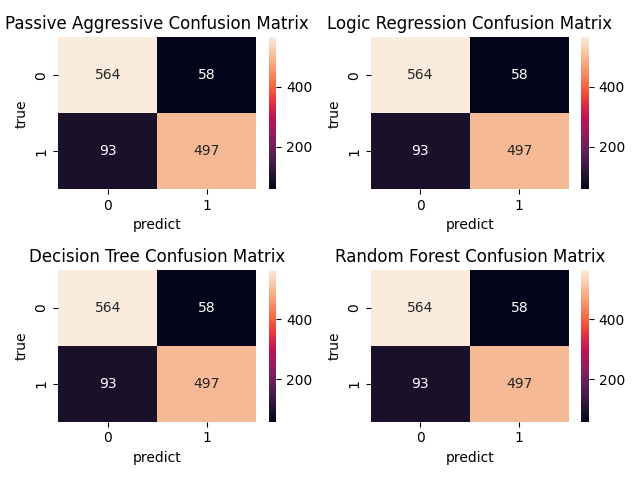
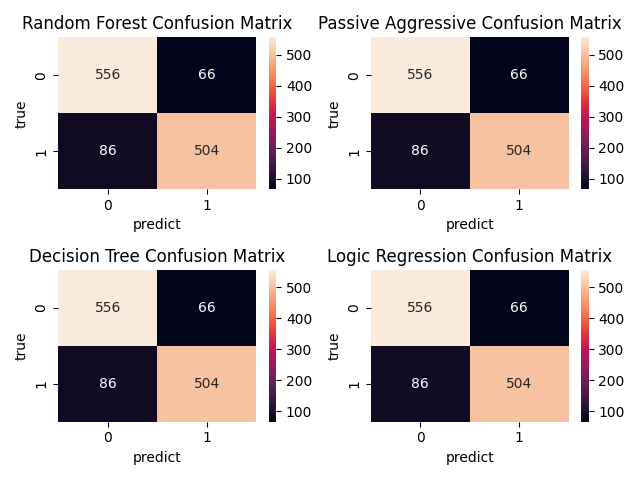
accuracy compare finished

diff --git a/Project3_part2.py b/Project3_part2.py
@@ -65,14 +65,14 @@ def draw_confusion_matrix(cm1, cm2, cm3, cm4):
     df_cm = pd.DataFrame(cm1)
     fig.add_subplot(gs[0, 0])
     ax = sn.heatmap(df_cm, annot=True, fmt='.20g')
-    ax.set_title('Passive Aggressive Confusion Matrix')  # 标题
+    ax.set_title('Random Forest Confusion Matrix')  # 标题
     ax.set_xlabel('predict')  # x轴
     ax.set_ylabel('true')  # y轴
 
     df_cm = pd.DataFrame(cm1)
     fig.add_subplot(gs[0, 1])
     ax = sn.heatmap(df_cm, annot=True, fmt='.20g')
-    ax.set_title('Logic Regression Confusion Matrix')  # 标题
+    ax.set_title('Passive Aggressive Confusion Matrix')  # 标题
     ax.set_xlabel('predict')  # x轴
     ax.set_ylabel('true')  # y轴
 
@@ -86,12 +86,12 @@ def draw_confusion_matrix(cm1, cm2, cm3, cm4):
     df_cm = pd.DataFrame(cm1)
     fig.add_subplot(gs[1, 1])
     ax = sn.heatmap(df_cm, annot=True, fmt='.20g')
-    ax.set_title('Random Forest Confusion Matrix')  # 标题
+    ax.set_title('Logic Regression Confusion Matrix')  # 标题
     ax.set_xlabel('predict')  # x轴
     ax.set_ylabel('true')  # y轴
 
     plt.savefig('confusion_matrix.png')
-    print('===> Confusion Matrix file path: /.png')
+    print('===> Confusion Matrix Picture file path: /confusion_matrix.png')
 
 
 def passive_aggressive_classify(x_train, y_train, x_test, y_test):
@@ -106,7 +106,7 @@ def passive_aggressive_classify(x_train, y_train, x_test, y_test):
     score = accuracy_score(y_test, y_pred)
     print(f'===> Passive Aggressive Accuracy: {round(score * 100, 2)}%')
     # 得到混淆矩阵
-    return confusion_matrix(y_test, y_pred, labels=['FAKE', 'REAL'])
+    return confusion_matrix(y_test, y_pred, labels=['FAKE', 'REAL']), round(score * 100, 2)
 
 
 # 逻辑回归
@@ -122,7 +122,7 @@ def logic_regression_classify(X_train, y_train, X_test, y_test):
 
     print(f'===> Logic Regression Accuracy: {round(score * 100, 2)}%')
     # 得到混淆矩阵
-    return confusion_matrix(y_test, prediction, labels=['FAKE', 'REAL'])
+    return confusion_matrix(y_test, prediction, labels=['FAKE', 'REAL']), round(score * 100, 2)
 
 
 # 决策树
@@ -139,7 +139,7 @@ def decision_tree_classify(X_train, y_train, X_test, y_test):
     score = accuracy_score(y_test, prediction)
     print(f'===> Decision Tree Accuracy: {round(score * 100, 2)}%')
     # 得到混淆矩阵
-    return confusion_matrix(y_test, prediction, labels=['FAKE', 'REAL'])
+    return confusion_matrix(y_test, prediction, labels=['FAKE', 'REAL']), round(score * 100, 2)
 
 
 def random_forest_classify(X_train, y_train, X_test, y_test):
@@ -153,7 +153,18 @@ def random_forest_classify(X_train, y_train, X_test, y_test):
     score = accuracy_score(y_test, prediction)
     print(f'===> Random Forest Accuracy: {round(score * 100, 2)}%')
     # 得到混淆矩阵
-    return confusion_matrix(y_test, prediction, labels=['FAKE', 'REAL'])
+    return confusion_matrix(y_test, prediction, labels=['FAKE', 'REAL']), round(score * 100, 2)
+
+
+def draw_accuracy_compare(accuracy):
+    plt.close()
+    accuracy.plot(kind='barh', stacked=False, figsize=(10, 5))
+    plt.title("Different Classifier Accuracy")
+    plt.yticks([])
+    plt.xlabel('%')
+    plt.ylabel('Classifier')
+    plt.grid()
+    plt.savefig('accuracy_compare.png')
 
 
 def main():
@@ -167,18 +178,20 @@ def main():
     word_cloud(df)
     # 数据集划分
     x_train, x_test, y_train, y_test = train_test_split(df['text'], labels, test_size=0.2, random_state=7)
-    # 原始数据转TF-IDF
-
     # RandomForestClassifier
-    cm1 = random_forest_classify(x_train, y_train, x_test, y_test)
+    cm1, accuracy1 = random_forest_classify(x_train, y_train, x_test, y_test)
     # PassiveAggressiveClassifier
-    cm2 = passive_aggressive_classify(x_train, y_train, x_test, y_test)
+    cm2, accuracy2 = passive_aggressive_classify(x_train, y_train, x_test, y_test)
     # DecisionTreeClassifier
-    cm3 = decision_tree_classify(x_train, y_train, x_test, y_test)
+    cm3, accuracy3 = decision_tree_classify(x_train, y_train, x_test, y_test)
     # LogicRegressionClassifier
-    cm4 = logic_regression_classify(x_train, y_train, x_test, y_test)
-
+    cm4, accuracy4 = logic_regression_classify(x_train, y_train, x_test, y_test)
+    # 画出混淆矩阵
     draw_confusion_matrix(cm1, cm2, cm3, cm4)
+    # 画出accuracy对比
+    accuracy = pd.DataFrame(columns=['random forest', 'passive aggressive', 'decision tree', 'logic regression'])
+    accuracy.loc[0] = [accuracy1, accuracy2, accuracy3, accuracy4]
+    draw_accuracy_compare(accuracy)
 
 
 if __name__ == '__main__':
